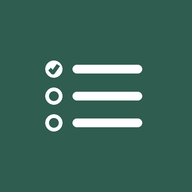
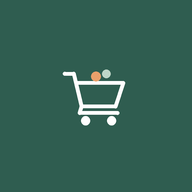
Add files via upload

Changed region(s): [[0.2188, 0.3125, 0.75, 0.6875], [0.2188, 0.5938, 0.3438, 0.6875], [0.2188, 0.4375, 0.3438, 0.5625]]

diff --git a/index.html b/index.html
@@ -134,18 +134,20 @@ select.veld{appearance:none;-webkit-appearance:none;background-image:url("data:i
 #splash .streep.boven{top:0}#splash .streep.onder{bottom:0}
 #splash .vlek1{position:absolute;top:-110px;right:-110px;width:360px;height:360px;border-radius:50%;background:radial-gradient(circle,rgba(47,93,80,.12) 0%,rgba(47,93,80,0) 70%)}
 #splash .vlek2{position:absolute;bottom:-90px;left:-90px;width:320px;height:320px;border-radius:50%;background:radial-gradient(circle,rgba(200,115,60,.10) 0%,rgba(200,115,60,0) 70%)}
-#splash .midden{position:relative;display:flex;flex-direction:column;align-items:center;padding:0 24px;animation:splashIn .6s ease-out both}
+#splash .cirkel{position:absolute;left:50%;top:50%;width:160px;height:160px;margin:-80px 0 0 -80px;border-radius:50%;background:var(--accent);display:flex;align-items:center;justify-content:center;transition:transform .45s cubic-bezier(.2,.8,.2,1)}
+#splash.klaar .cirkel{transform:translateY(-118px)}
+#splash .midden{position:absolute;left:0;right:0;top:calc(50% - 14px);display:flex;flex-direction:column;align-items:center;padding:0 24px;opacity:0;transform:translateY(24px);transition:opacity .45s ease .1s,transform .45s cubic-bezier(.2,.8,.2,1) .1s}
+#splash.klaar .midden{opacity:1;transform:none}
 #splash .titel{font-family:'Playfair Display',Georgia,serif;font-style:italic;font-weight:700;font-size:44px;line-height:1.1;color:var(--accent);white-space:nowrap}
 #splash .lijntje{width:60px;height:3px;border-radius:2px;background:#C8733C;margin-top:12px}
-#splash .tag{margin:28px 0 6px;font-family:'Cormorant Garamond',Georgia,serif;font-style:italic;font-size:21px;color:#6B8F80}
+#splash .tag{margin:22px 0 6px;font-family:'Cormorant Garamond',Georgia,serif;font-style:italic;font-size:21px;color:#6B8F80}
 #splash .emoji{font-size:24px;letter-spacing:.14em}
 #splash .laden{position:absolute;bottom:calc(64px + env(safe-area-inset-bottom,0px));display:flex;flex-direction:column;align-items:center;gap:10px;font-size:13px;color:var(--zacht)}
 #splash .stippen{display:flex;gap:8px}
 #splash .stippen span{width:7px;height:7px;border-radius:50%;background:var(--accent);animation:stip 1.2s infinite}
 #splash .stippen span:nth-child(2){animation-delay:.2s}#splash .stippen span:nth-child(3){animation-delay:.4s}
 @keyframes stip{0%,80%,100%{opacity:.25}40%{opacity:1}}
-@keyframes splashIn{from{opacity:0;transform:translateY(8px)}to{opacity:1;transform:none}}
-@media (prefers-reduced-motion:reduce){#splash .midden,#splash .stippen span{animation:none}}
+@media (prefers-reduced-motion:reduce){#splash .cirkel,#splash .midden{transition:none}#splash .stippen span{animation:none}}
 @media (prefers-reduced-motion:reduce){*{transition:none!important}}
 </style>
 </head>
@@ -154,14 +156,15 @@ select.veld{appearance:none;-webkit-appearance:none;background-image:url("data:i
 <!-- STARTSCHERM: verdwijnt vanzelf zodra de lijst geladen is -->
 <div id="splash" aria-hidden="true">
   <div class="streep boven"></div><div class="vlek1"></div><div class="vlek2"></div>
-  <div class="midden">
-    <svg width="120" height="64" viewBox="0 0 120 64" fill="none" style="margin-bottom:26px;opacity:.75">
-      <path d="M22 24h76l-8 30H30z" stroke="#2F5D50" stroke-width="1.8" stroke-linejoin="round"/>
-      <path d="M40 24l10-16M80 24L70 8" stroke="#2F5D50" stroke-width="1.8" stroke-linecap="round"/>
-      <path d="M44 34v12M60 34v12M76 34v12" stroke="#2F5D50" stroke-width="1.5" stroke-linecap="round" opacity=".6"/>
-      <ellipse cx="46" cy="18" rx="8" ry="4.5" fill="#C8733C" opacity=".35" transform="rotate(-18 46 18)"/>
-      <ellipse cx="74" cy="17" rx="8" ry="4.5" fill="#2F5D50" opacity=".3" transform="rotate(14 74 17)"/>
+  <div class="cirkel">
+    <svg width="92" height="80" viewBox="0 0 112 96" fill="none">
+      <path d="M8 14h14l12 50h52l12-36H28" stroke="#fff" stroke-width="6" stroke-linecap="round" stroke-linejoin="round"/>
+      <path d="M34 64l-3 10h58" stroke="#fff" stroke-width="6" stroke-linecap="round" stroke-linejoin="round"/>
+      <circle cx="40" cy="86" r="7" fill="#fff"/><circle cx="80" cy="86" r="7" fill="#fff"/>
+      <circle cx="56" cy="18" r="7.5" fill="#E9A06B"/><circle cx="72" cy="14" r="6.5" fill="#BFD6C8"/>
     </svg>
+  </div>
+  <div class="midden">
     <span class="titel">Boodschappen</span>
     <span class="lijntje"></span>
     <p class="tag">Wat hebben we nodig?</p>
@@ -173,6 +176,7 @@ select.veld{appearance:none;-webkit-appearance:none;background-image:url("data:i
 <script>
   // Snelkoppeling Bonuskaart: startscherm overslaan. Vangnet: nooit langer dan 3,5 seconde.
   if (/[?&]scherm=kaart/.test(location.search)) document.getElementById('splash').remove();
+  else setTimeout(function(){ var s = document.getElementById('splash'); if (s) s.classList.add('klaar'); }, 150);   // cirkel omhoog, tekst erbij
   setTimeout(function(){ var s = document.getElementById('splash'); if (s) s.remove(); }, 3500);
 </script>
 
